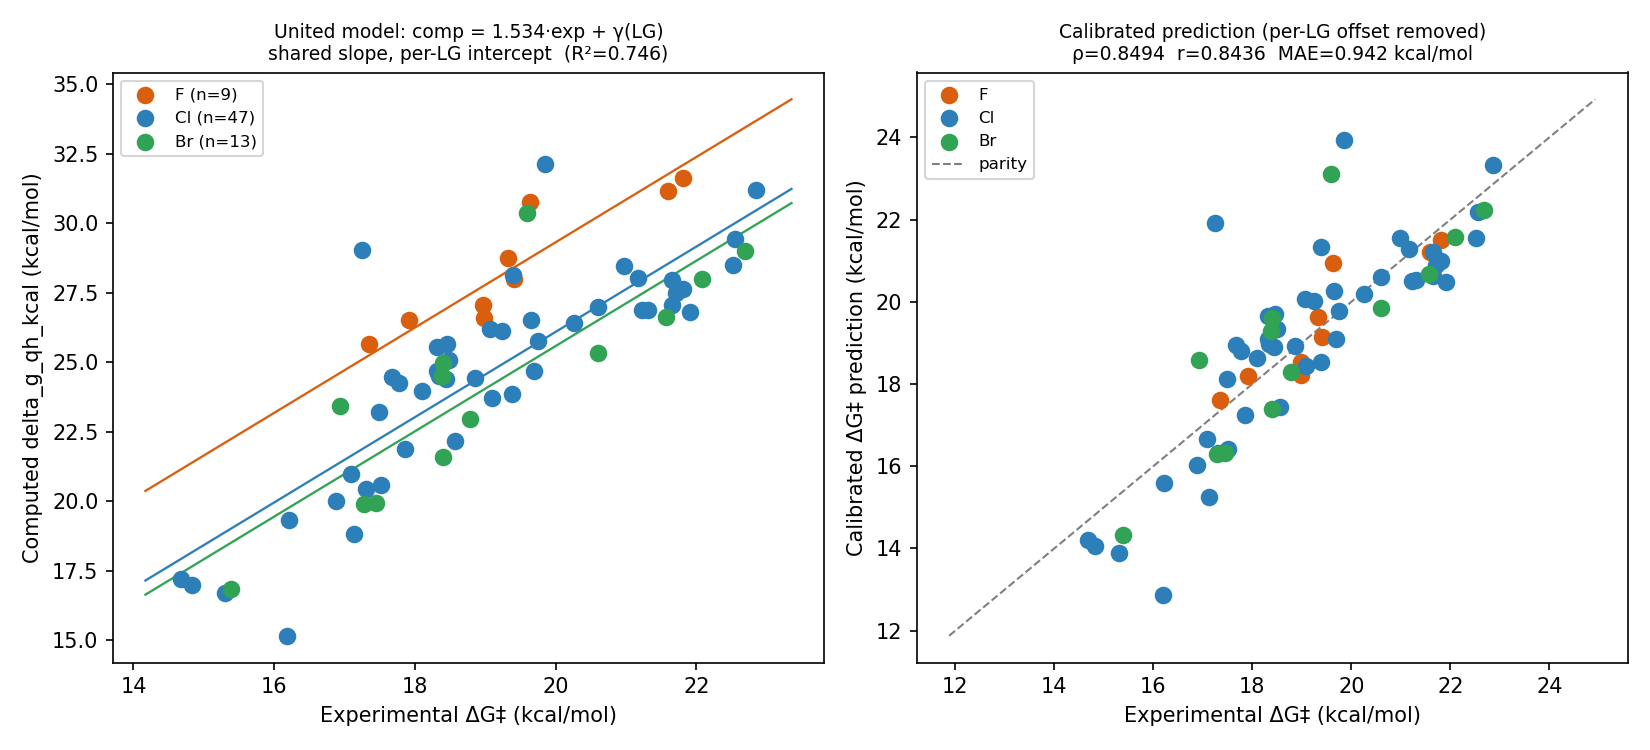
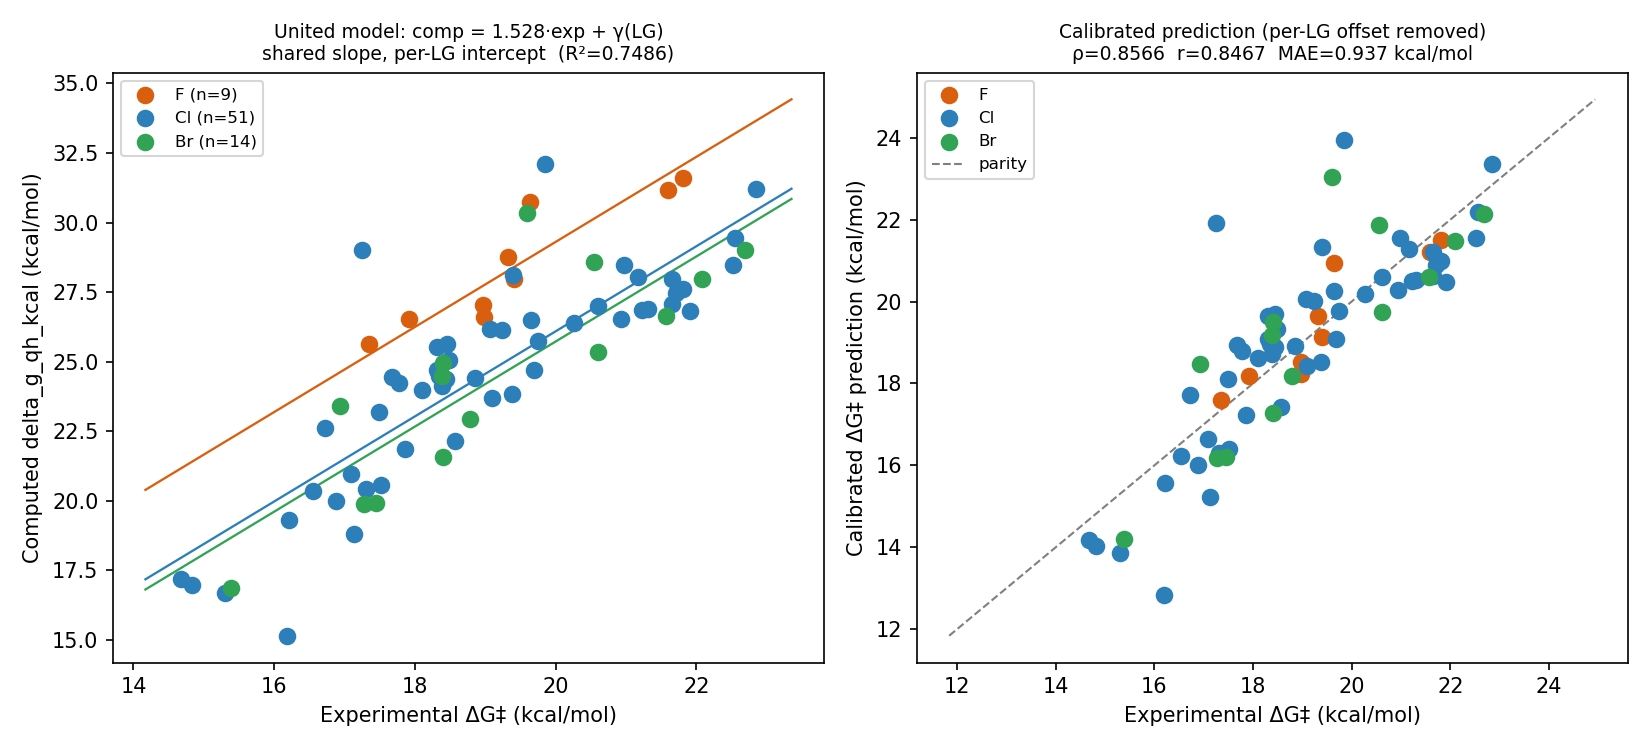
docs(notes): recover the 5 hard Lu_74 failures, refit united model to 74/74
The 5 large arylators (lu 10/20/21/36/53) that exceeded the 4 GB GPU at the
analytic Hessian are recovered via a hybrid recipe: CPU/Psi4 gas backbone plus a
GPU SMD single point on the CPU geometry, keeping all 74 substrates on the same
SMD solvent model. A matched cross-engine spot-check (lu_23, both engines, SMD
fixed) puts the geometry-engine shift at ~1.3 kcal/mol -- comparable to the
model's own MAE. The refit (source_model: smd 69 + cpu_geom_smd 5) leaves the
calibration essentially unchanged (MAE 0.94, ranking rho 0.86, shared-slope
F-test p=0.95), so this is completeness, not a correctness shift.

diff --git a/notes/2026-06-28_lu74_full_deltag_analysis.md b/notes/2026-06-28_lu74_full_deltag_analysis.md
@@ -125,3 +125,54 @@ are same-engine, same-recipe re-runs of the cached gas geometries — no cross-e
    calibrated ΔG‡ ranker a reactivity consumer applies across F/Cl/Br.
 5. **Guard against overfit.** With F n=9, confirm the per-LG calibration generalises
    (leave-one-out within F, or a held-out check) before treating the offsets as fixed.
+
+## Hard-failure recovery → 74/74 (2026-06-29)
+
+Next-step 2 is **done**: the **5 hard failures** are recovered and the united model is refit on
+the **full 74-substrate** cohort.
+
+**Why they were hard.** All 5 are large arylators (25–32 atoms: a bis-CF₃ arene, two
+CF₃-quinolines, a chloro-triazine-morpholine, a dimethoxy-chloroquinoline) that exceeded the
+4 GB GPU at the **analytic Hessian** of `ts_opt_freq` / `arx_opt_freq`. The per-substrate
+CuPy-pool-free fix helps *cumulative* OOM but not a single oversized Hessian, so a fresh solo-GPU
+retry still OOM'd on **all 5** (lu_10 at `arx_opt_freq`; 20/21/36/53 at `ts_opt_freq`) — as
+expected.
+
+**Recovery (CPU gas + GPU-SMD single point — the "hybrid SMD" recipe).** CPU/Psi4 has no VRAM
+limit, so the gas backbone (TS-opt + analytic Hessian) completes there; the barrier is then put
+on the **SMD** model with a **GPU SMD single point on the CPU geometry** (a single SCF, no
+Hessian — fits in 4 GB). This keeps all 74 on the **same SMD solvent model**. All 5 are clean
+first-order saddles (`n_imag_ts=1`):
+
+| lu_id | LG | ΔG‡(qh), DMSO SMD | (CPU IEF-PCM, for reference) |
+|---|---|---|---|
+| 20 | Cl | 20.35 | 22.83 |
+| 21 | Cl | 22.62 | 25.37 |
+| 36 | Cl | 24.12 | 25.44 |
+| 53 | Cl | 26.52 | 28.58 |
+| 10 | Br | 28.58 | 30.22 |
+
+(The SMD value runs ~1.3–2.8 kcal/mol below IEF-PCM — the solvent-model gap, and the reason the
+hybrid SMD path beats entering the 5 as raw `cpu_iefpcm` rows.)
+
+**Cross-engine spot-check.** The 5 keep a CPU geometry (Psi4 optking) rather than the GPU
+geometry (geomeTRIC) of the other 69. A matched check — **lu_23** (25-atom aryl chloride) run on
+both engines with SMD held fixed — gives **CPU-geom-SMD 22.31 vs GPU-geom-SMD 20.97 = ~1.3
+kcal/mol**, i.e. comparable to the model's own ~0.94 kcal/mol MAE.
+
+**Refit (74/74).** `source_model_counts = {smd: 69, cpu_geom_smd: 5}`. The calibration is
+essentially unchanged from the 69-row SMD model — completeness, not a correctness shift:
+
+| metric | 69/74 (SMD) | **74/74 (hybrid SMD)** |
+|---|---|---|
+| shared slope β | 1.53 | 1.53 |
+| calibrated MAE | 0.942 | **0.937** |
+| ranking ρ | 0.849 | 0.857 |
+| R² | 0.746 | 0.749 |
+| slope-choice F-test | F≈0.07, p≈0.93 | F≈0.05, **p≈0.95** (shared slope) |
+
+The partial F-test still favours the **shared-slope** model on the enlarged cohort (the 5 new
+rows are 1 Br + 4 Cl). Assets: `notes/assets/cpu_geom_smd/` (the 5) + refreshed
+`notes/assets/united_model/`. Run dirs (gitignored): `data/processed/cpu_hard_iefpcm/` (CPU gas
++ IEF-PCM), `data/processed/cpu_geom_smd/` (GPU-SMD SP), `data/processed/cpu_spotcheck{,_smd}/`
+(the lu_23 cross-engine check).

diff --git a/notes/assets/cpu_geom_smd/README.md b/notes/assets/cpu_geom_smd/README.md
@@ -1,0 +1,41 @@
+# `cpu_geom_smd/` — the 5 hard-failure substrates (hybrid CPU-geometry / GPU-SMD)
+
+**What:** the validation join + stats for the **5 large arylators** that exceeded the 4 GB GPU
+at the analytic Hessian during the Lu_74 campaign and could not be optimised on `gpu4pyscf`.
+They are recovered here on a **hybrid recipe** so they enter the united model on the **same SMD
+solvent model** as the other 69.
+
+**Recipe (per substrate).**
+1. **Gas backbone on CPU/Psi4** (`run_poc.py … --solvent DMSO --solvent-model iefpcm`,
+   env `snar-qc`) — CPU has no VRAM limit, so the TS-opt + analytic-Hessian that OOM'd on the
+   GPU complete here. Run dir: `data/processed/cpu_hard_iefpcm/` (gitignored).
+2. **GPU SMD single point on the CPU geometry** (`sweep_solvent.py … --solvent-model smd`,
+   env `gpuqc`) — a single SCF (no Hessian) fits in 4 GB easily. Run dir:
+   `data/processed/cpu_geom_smd/` (gitignored). This swaps the solvent model from the CPU run's
+   IEF-PCM to **SMD**, matching the primary.
+
+**The 5 (DMSO SMD ΔG‡, quasi-harmonic; all clean first-order saddles `n_imag_ts=1`):**
+
+| lu_id | LG | SMILES | ΔG‡(qh) kcal/mol |
+|---|---|---|---|
+| 20 | Cl | `FC(F)(F)c1cc(Cl)c2ccccc2n1`     | 20.35 |
+| 21 | Cl | `FC(F)(F)c1ccc2nccc(Cl)c2c1`     | 22.62 |
+| 36 | Cl | `Clc1cc(N2CCOCC2)ncn1`           | 24.12 |
+| 53 | Cl | `COc1cc2nccc(Cl)c2cc1OC`         | 26.52 |
+| 10 | Br | `FC(F)(F)c1cc(Br)cc(C(F)(F)F)c1` | 28.58 |
+
+**Provenance caveat (`source_model = cpu_geom_smd`).** These 5 share the SMD solvent model with
+the primary but keep a **CPU-optimised geometry** (Psi4 optking) rather than the GPU geometry
+(geomeTRIC) of the other 69. A matched spot-check — lu_23, a 25-atom aryl chloride run on **both**
+engines with SMD held fixed — put the pure geometry-engine shift at **CPU-geom-SMD 22.31 vs
+GPU-geom-SMD 20.97 = ~1.3 kcal/mol**, i.e. on the order of the model's own ~0.94 kcal/mol MAE.
+The refit absorbed the 5 with no MAE penalty (it improved marginally, 0.94→0.937), so the shift
+is within method noise. Spot-check dirs: `data/processed/cpu_spotcheck/` (CPU gas) +
+`data/processed/cpu_spotcheck_smd/` (GPU-SMD SP), gitignored.
+
+**When:** 2026-06-29. Write-up: `notes/2026-06-28_lu74_full_deltag_analysis.md` (hard-failure
+recovery section). Feeds `../united_model/` as the fallback that lifts the cohort to **74/74**.
+
+**Files:** `poc_validation_join.csv`, `poc_validation_stats.json`,
+`poc_validation_scatter.png`, `poc_validation_per_lg.png` — part of the Lu_74 published
+test/calibration set.

diff --git a/notes/assets/united_model/README.md b/notes/assets/united_model/README.md
@@ -10,9 +10,11 @@ substrate (the standard workflow). The companion to the per-model `../gpu_dmso_*
 - `united_model_scatter.png` — left: raw computed-vs-experimental with the three parallel
   shared-slope lines; right: calibrated prediction (per-LG offset removed) vs experimental.
 - `united_model_join.csv` — the blended per-substrate frame with a `source_model` provenance
-  tag (**internal / per-substrate values; not for the public tree** — see the root note).
+  tag. The Lu_74 set is this repo's **published test/calibration set** (Lu et al.'s barriers are
+  literature; the computed values are the repo's contribution).
 
-**When:** 2026-06-28. Write-up: `notes/2026-06-28_lu74_full_deltag_analysis.md`.
+**When:** 2026-06-28; extended to the full **74/74** cohort 2026-06-29 (hard-failure recovery).
+Write-up: `notes/2026-06-28_lu74_full_deltag_analysis.md`.
 
 **Model.** Two nested calibrations are fit (computed-on-experimental, `comp = slope·exp + γ`):
 
@@ -23,24 +25,30 @@ substrate (the standard workflow). The companion to the per-model `../gpu_dmso_*
   used only as the comparison arm.
 
 **Slope choice (the "F slope vs F offset" question).** A partial F-test compares the two: on
-the SMD 69-substrate cohort it is **not significant** (F≈0.07, p≈0.93), and the per-LG-slope
-model's *adjusted* R² is lower. So fluoride's distinctness is an **offset**, not a slope — a
-**shared slope with per-LG intercepts** is the right, non-overfit calibration. (The solvated
-per-LG slopes cluster tightly: SMD F 1.38 / Cl 1.56 / Br 1.50.)
+the full 74-substrate cohort it is **not significant** (F≈0.05, p≈0.95), and the per-LG-slope
+model's *adjusted* R² is lower (0.731 vs 0.738). So fluoride's distinctness is an **offset**, not
+a slope — a **shared slope with per-LG intercepts** is the right, non-overfit calibration. (The
+solvated per-LG slopes cluster tightly: SMD F 1.38 / Cl 1.53 / Br 1.55.)
 
-**Headline (SMD, 69/74).** Shared slope β≈1.53 (computed over-disperses ~1.5× vs experiment);
-per-LG mean offsets F +9.0 / Cl +5.6 / Br +5.1. After per-LG calibration the pooled ranking is
-**ρ≈0.85**, and the calibrated-prediction MAE is **≈0.94 kcal/mol** (vs 1.88 for a slope-1
-offset-only correction — the shared slope removes the over-dispersion).
+**Headline (SMD, 74/74).** Shared slope β≈1.53 (computed over-disperses ~1.5× vs experiment);
+per-LG mean offsets F +9.0 / Cl +5.5 / Br +5.3. After per-LG calibration the pooled ranking is
+**ρ≈0.86**, and the calibrated-prediction MAE is **≈0.94 kcal/mol** (R²≈0.75). Adding the 5
+recovered hard substrates left the calibration essentially unchanged (69-row MAE was also 0.94),
+confirming completeness without a correctness shift.
 
-**Provenance.** Every row carries `source_model`. After the 2026-06-28 OOM recovery SMD covers
-the same 69 substrates as IEF-PCM, so the headline model is **pure SMD (0 backfilled rows)**;
-the IEF-PCM-fallback path is retained for hosts/substrates where SMD is unavailable.
+**Provenance.** Every row carries `source_model`: **smd 69 + cpu_geom_smd 5**. The 5 are the
+large arylators that exceeded the 4 GB GPU at the analytic Hessian; recovered on **CPU/Psi4**
+(gas backbone) and finished with a **GPU SMD single point on the CPU geometry** (`cpu_geom_smd`),
+so all 74 share the **same SMD solvent model**. The residual cross-engine difference is the
+*geometry* engine only (CPU optking vs GPU geomeTRIC); a matched spot-check (lu_23) put that at
+**~1.3 kcal/mol** — comparable to the model's own MAE, and absorbed without degrading the fit.
+The IEF-PCM-fallback path is retained in `fit_united_model.py` for hosts where SMD is
+unavailable.
 
 **Reproduce:**
 ```bash
 python scripts/fit_united_model.py \
   --primary  notes/assets/gpu_dmso_smd/poc_validation_join.csv     --primary-model smd \
-  --fallback notes/assets/gpu_dmso_iefpcm/poc_validation_join.csv  --fallback-model iefpcm \
+  --fallback notes/assets/cpu_geom_smd/poc_validation_join.csv     --fallback-model cpu_geom_smd \
   --outdir   notes/assets/united_model
 ```